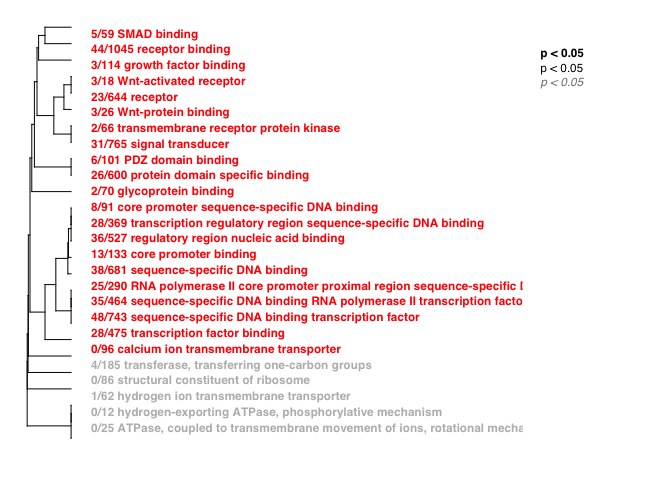
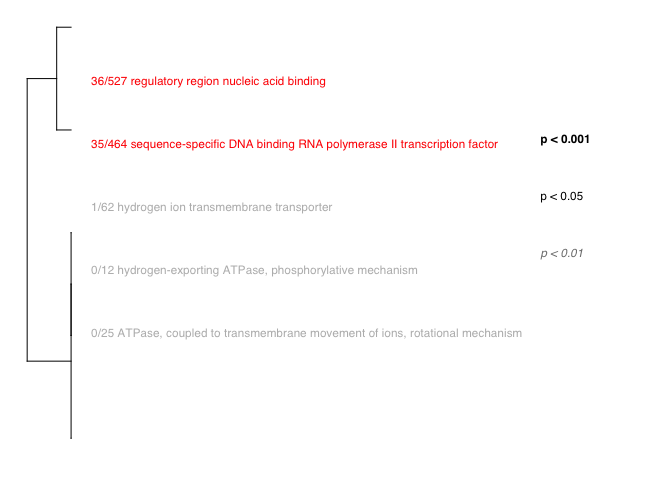
now with go

diff --git a/RmdFiles/02d_GO_MWU/GO_MWU.md b/RmdFiles/02d_GO_MWU/GO_MWU.md
@@ -63,12 +63,12 @@ From Experitment 1: Dissociation Test Molecular Function (MF)
     # Data viz
     gomwuPlot(input,goAnnotations,goDivision,
         absValue=-log(0.05,10),  
-        level1=0.05, 
+        level1=0.01, 
         level2=0.05, 
-        level3=0.05, 
+        level3=0.001, 
         txtsize=1.4,    
         treeHeight=0.5, 
-      colors=c("grey73","lightcoral","grey73","lightcoral") 
+      colors=c("grey73","lightsalmon","grey73","lightsalmon") 
     )
 
     ## Warning in plot.formula(c(1:top) ~ c(1:top), type = "n", axes = F, xlab =
@@ -79,8 +79,8 @@ From Experitment 1: Dissociation Test Molecular Function (MF)
 
 ![](../../figures/02_RNAseq/GOConsistentControlDG-1.png)
 
-    ## GO terms dispayed:  37 
-    ## "Good genes" accounted for:  220 out of 429 ( 51% )
+    ## GO terms dispayed:  20 
+    ## "Good genes" accounted for:  162 out of 429 ( 38% )
 
     # input files
     input="padjAPAConflictControlDG.csv" 
@@ -98,9 +98,9 @@ From Experitment 1: Dissociation Test Molecular Function (MF)
     # Data viz
     gomwuPlot(input,goAnnotations,goDivision,
         absValue=-log(0.05,10),  
-        level1=0.05, 
+        level1=0.01, 
         level2=0.05, 
-        level3=0.05, 
+        level3=0.001, 
         txtsize=1.4,    
         treeHeight=0.5, 
       colors=c("grey73","red","grey73","red") 
@@ -114,8 +114,8 @@ From Experitment 1: Dissociation Test Molecular Function (MF)
 
 ![](../../figures/02_RNAseq/GOConflictControlDG-1.png)
 
-    ## GO terms dispayed:  26 
-    ## "Good genes" accounted for:  131 out of 321 ( 41% )
+    ## GO terms dispayed:  5 
+    ## "Good genes" accounted for:  47 out of 321 ( 15% )
 
     #library(dplyr)
     #list of all genes. I only care about column 1
@@ -150,7 +150,7 @@ From Experitment 1: Dissociation Test Molecular Function (MF)
         absValue=0.001,   
         level1=0.05, 
         level2=0.05, 
-        level3=0.05, 
+        level3=0.05,
         txtsize=1.5,    
         treeHeight=0.5 
     )
